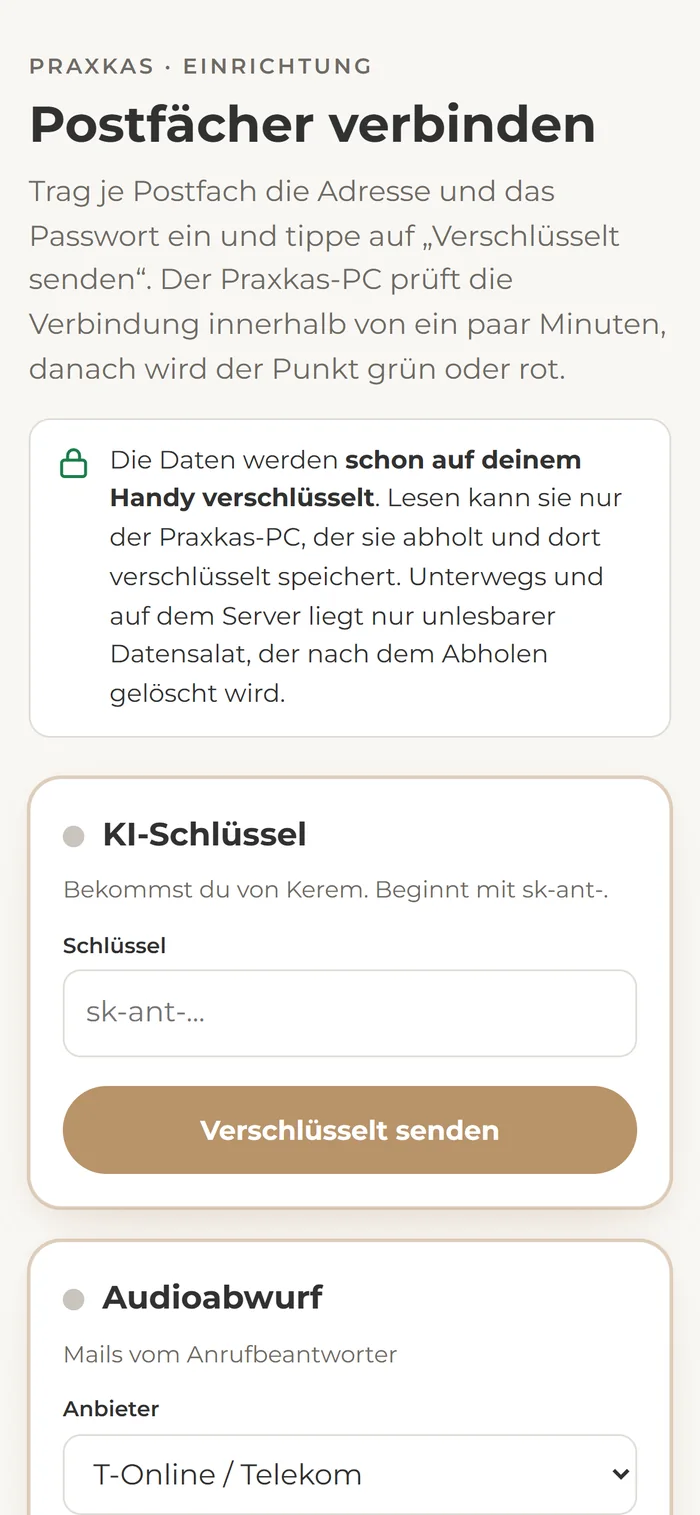
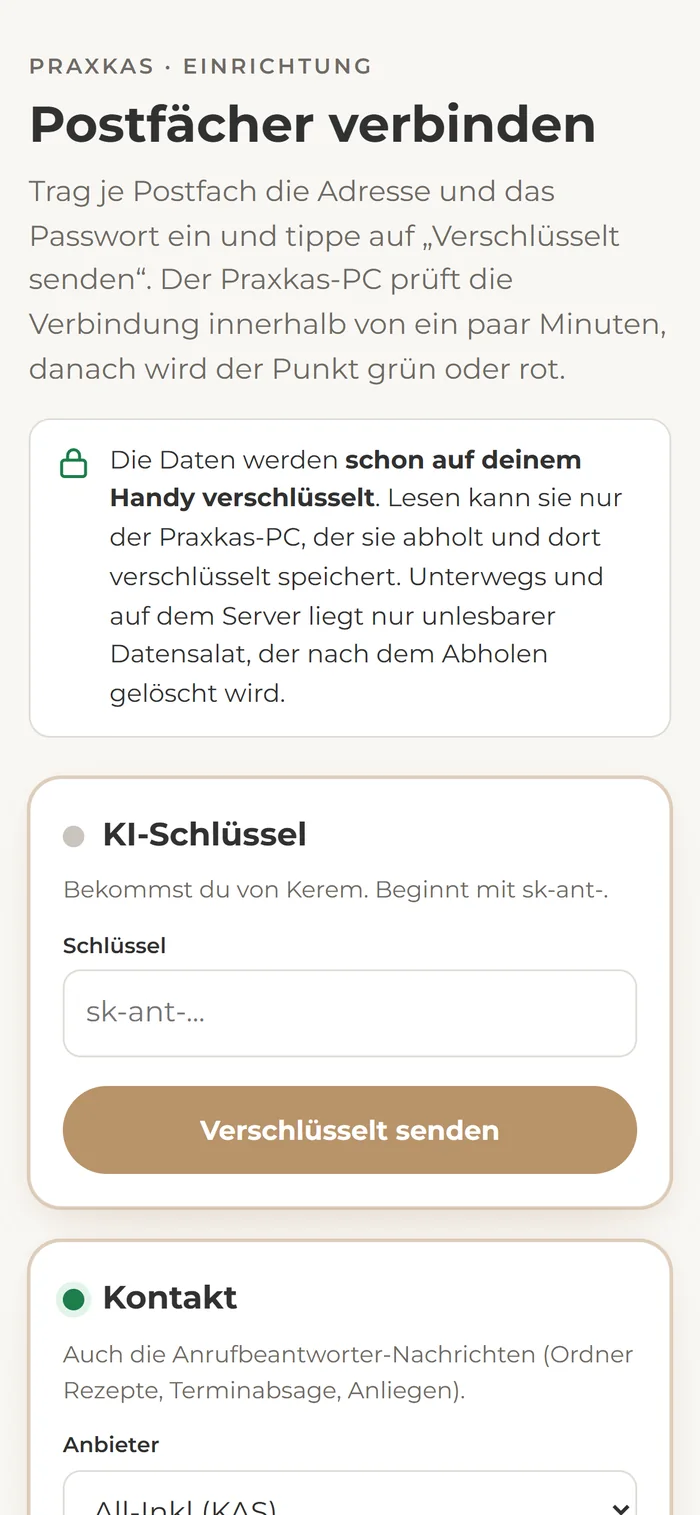
shared-documents: praxkas-verbindungen ohne Telekom-Karte

Changed region(s): [[0.06, 0.8376, 0.9, 1.0], [0.78, 0.8686, 0.9, 0.8997]]

diff --git a/shared-documents/praxkas-verbindungen/index.html b/shared-documents/praxkas-verbindungen/index.html
@@ -69,7 +69,7 @@ footer{padding:30px 0 60px;border-top:1px solid var(--line);color:var(--muted);f
   <section class="hero">
     <span class="eyebrow">Praxkas · Kurzanleitung</span>
     <h1>Die Praxis-Postfächer mit Praxkas verbinden</h1>
-    <p class="lead">Alles andere ist vorbereitet. Es fehlen nur die Zugänge zu den vier Postfächern. Du trägst sie über einen Link ein, den Kerem dir schickt, bequem vom Handy aus. Das dauert etwa eine Viertelstunde.</p>
+    <p class="lead">Alles andere ist vorbereitet. Es fehlen nur die Zugänge zu den Praxis-Postfächern. Du trägst sie über einen Link ein, den Kerem dir schickt, bequem vom Handy aus. Das dauert etwa eine Viertelstunde.</p>
     <div class="safe">
       <svg width="22" height="22" viewBox="0 0 24 24" fill="none" stroke="#1E9E6A" stroke-width="2" stroke-linecap="round" stroke-linejoin="round"><rect x="4" y="10" width="16" height="11" rx="2"/><path d="M8 10V7a4 4 0 0 1 8 0v3"/></svg>
       <p><strong>Deine Zugangsdaten werden schon auf deinem Handy verschlüsselt.</strong> Lesen kann sie nur der Praxkas-PC. Er holt sie ab, prüft die Verbindung und speichert sie dort wieder verschlüsselt. Auf dem Weg dorthin und auf dem Server liegt nur unlesbarer Datensalat, der nach dem Abholen gelöscht wird. Den Link bitte nicht weitergeben.</p>
@@ -81,7 +81,7 @@ footer{padding:30px 0 60px;border-top:1px solid var(--line);color:var(--muted);f
     <div class="split">
       <div>
         <h2>Link öffnen</h2>
-        <p>Öffne den Link, den dir Kerem geschickt hat, am besten auf dem Handy. Es geht aber auch am Computer. Du siehst fünf Karten: den KI-Schlüssel und die vier Postfächer.</p>
+        <p>Öffne den Link, den dir Kerem geschickt hat, am besten auf dem Handy. Es geht aber auch am Computer. Du siehst vier Karten: den KI-Schlüssel und die drei Postfächer Kontakt, Info und Pflegeheime.</p>
         <p>Du musst nicht alles auf einmal machen. Jede Karte wird für sich gesendet.</p>
       </div>
       <div class="shot phone"><img src="img/handy.webp" alt="Handy-Seite Postfächer verbinden" loading="lazy"></div>
@@ -95,14 +95,6 @@ footer{padding:30px 0 60px;border-top:1px solid var(--line);color:var(--muted);f
       <p>Der Anbieter ist bei jedem Postfach schon richtig eingestellt. Du trägst nur die Adresse und das Passwort ein.</p>
       <div class="cards">
         <div class="card">
-          <span class="who">T-Online</span>
-          <h3>Audioabwurf</h3>
-          <ul>
-            <li>E-Mail-Adresse des Abwurf-Postfachs</li>
-            <li>Das <strong>E-Mail-Passwort</strong>. Das ist nicht das Passwort fürs Telekom-Kundencenter. Es steht im Kundencenter bei den E-Mail-Einstellungen.</li>
-          </ul>
-        </div>
-        <div class="card">
           <span class="who">Google</span>
           <h3>Pflegeheime</h3>
           <ul>
@@ -114,6 +106,7 @@ footer{padding:30px 0 60px;border-top:1px solid var(--line);color:var(--muted);f
         <div class="card">
           <span class="who">All-Inkl (KAS)</span>
           <h3>Kontakt und Info</h3>
+          <p style="margin:6px 0 0;font-size:14px">Über Kontakt kommen auch die Anrufbeantworter-Nachrichten (Ordner Rezepte, Terminabsage, Anliegen). Ein eigener Telekom-Zugang ist nicht nötig.</p>
           <ul>
             <li>E-Mail-Adresse und Passwort des Postfachs</li>
             <li><strong>Server</strong> (sieht aus wie w0…kasserver.com) und <strong>Login</strong> (sieht aus wie m0…). Beides steht im KAS unter <strong>kas.all-inkl.com</strong> → E-Mail → E-Mail-Postfach.</li>
